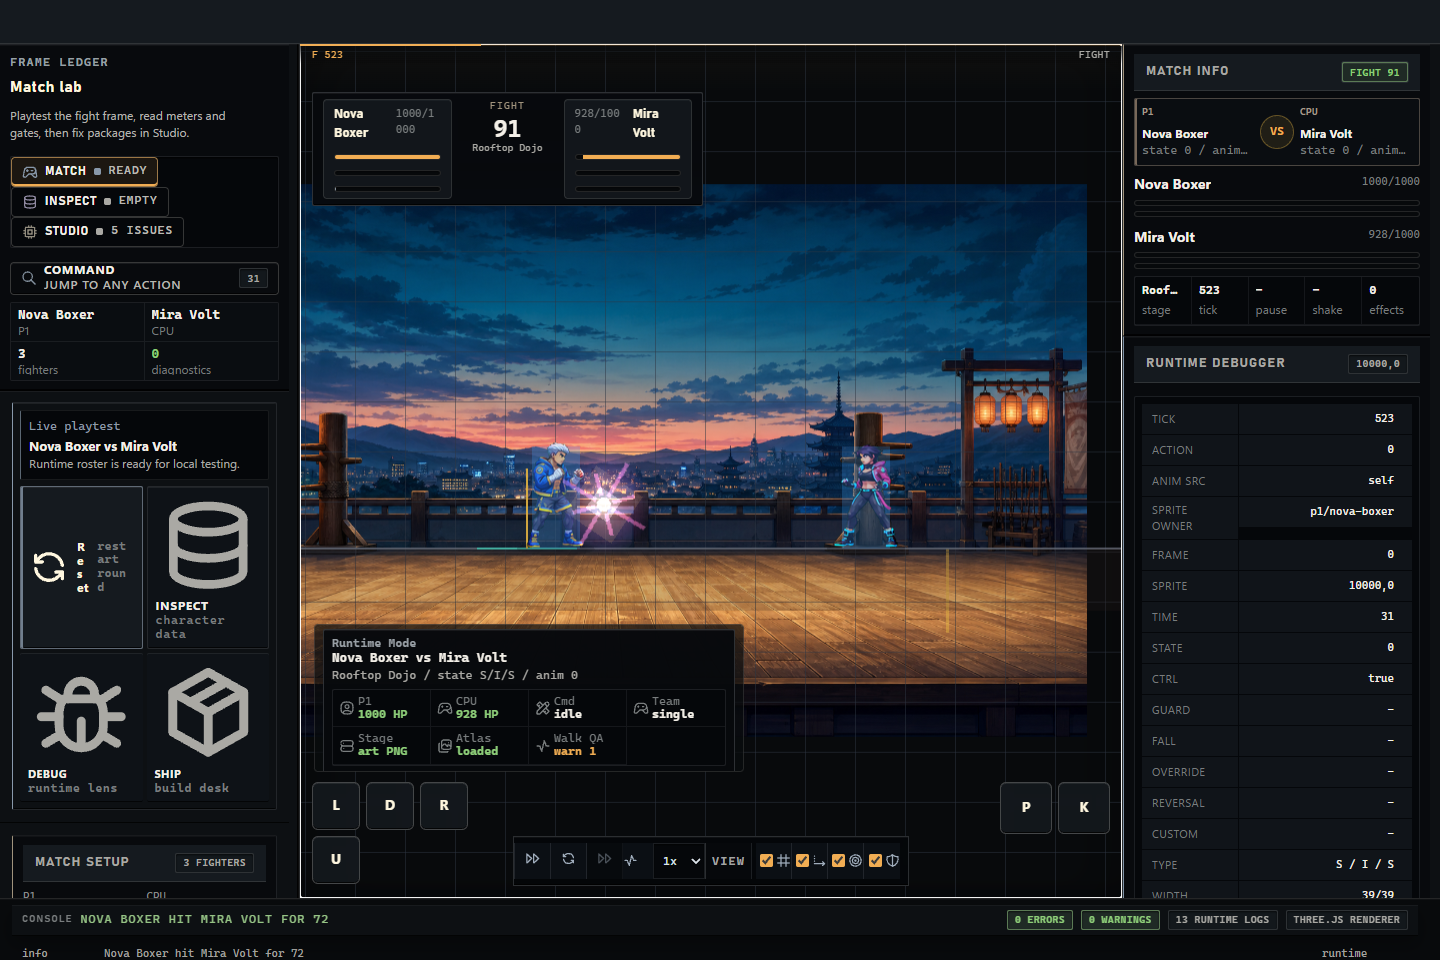
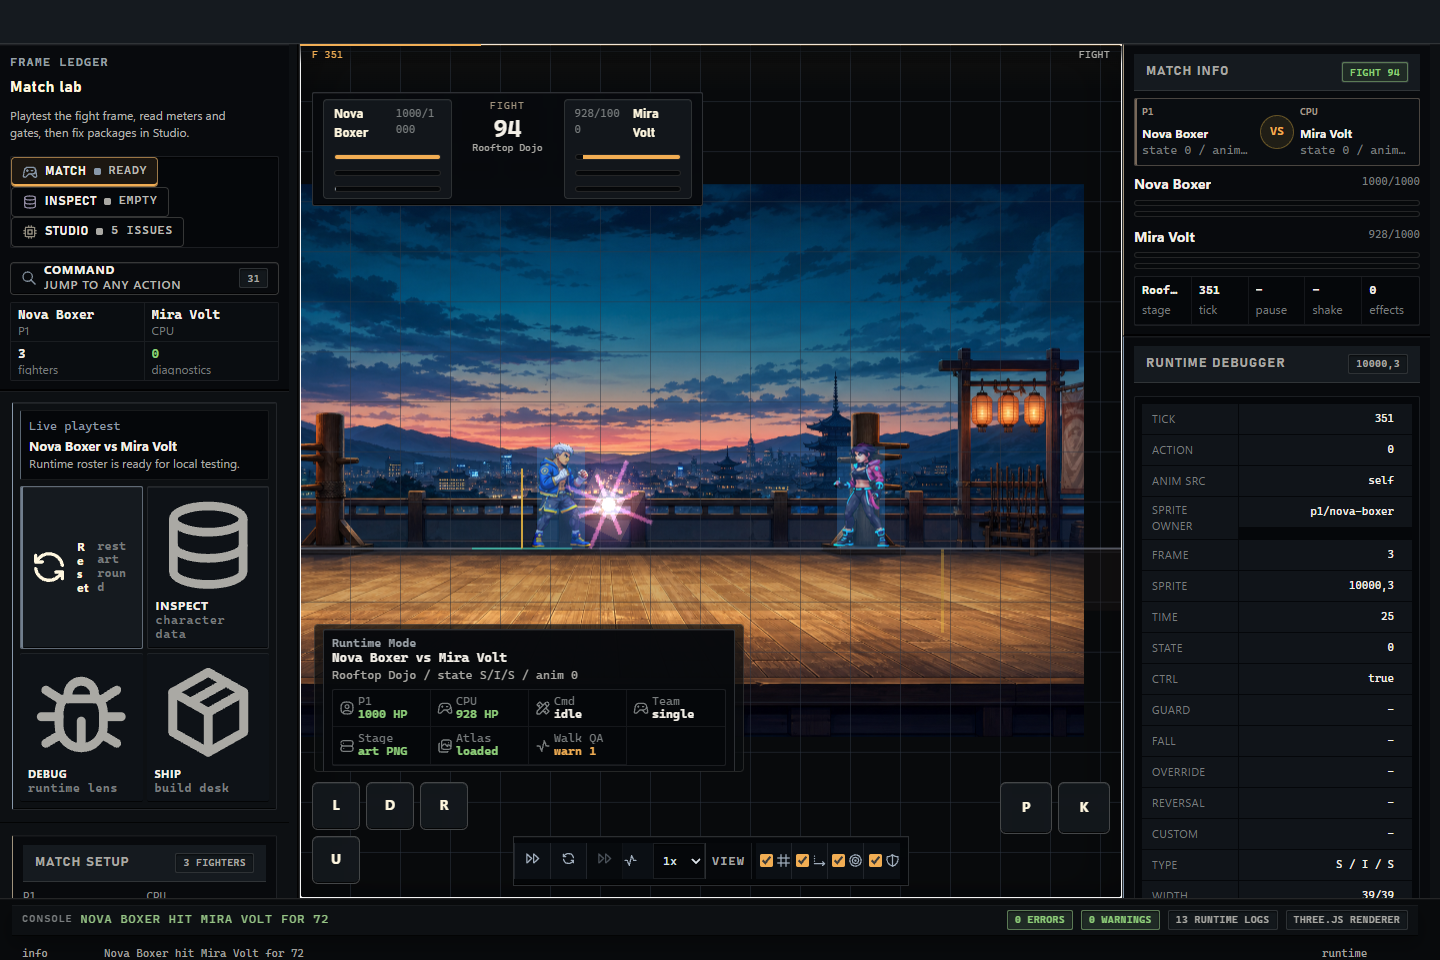
fix(da32): stabilize hit spark input drive

Changed region(s): [[0.2188, 0.1875, 0.7812, 0.6875], [0.75, 0.6562, 0.7812, 0.6875], [0.3438, 0.125, 0.375, 0.1562]]

diff --git a/docs/PROGRESS_TRACKER.md b/docs/PROGRESS_TRACKER.md
@@ -37,7 +37,8 @@ Research: [desktop and responsive interface audit](research/2026-07-27-interface
 ## DA32-002 native hit-spark drive - focal pass, global smoke open (2026-07-27)
 
 - `scripts/qa_smoke.cjs` now waits for `playing`, approaches by live actor
-  distance, and retries the named attack keys after a miss.
+  distance, holds each attack for 120 ms, and retries the named attack keys
+  after a miss.
 - `pnpm qa:browser:da32-002-hit-spark` passed at desktop `1440x960` and mobile
   `390x844`. `KeyZ`, `KeyA`, and `KeyX` each produced a player spark with a
   resolved sprite and axis record; unexpected console errors: zero.

diff --git a/docs/WORKPLAN.md b/docs/WORKPLAN.md
@@ -3,8 +3,9 @@
 ## DA32-002 native hit-spark drive (2026-07-27)
 
 `scripts/qa_smoke.cjs` now keeps the match playing, approaches until the live
-actors reach attack range, and retries `KeyZ`, `KeyA`, and `KeyX`. The focused
-browser gate passed on desktop `1440x960` and mobile `390x844`, with native
+actors reach attack range, holds each attack for 120 ms, and retries `KeyZ`,
+`KeyA`, and `KeyX`. The focused browser gate passed on desktop `1440x960` and
+mobile `390x844`, with native
 player spark source, resolved sprite frame, axis data, damage, and zero
 unexpected console errors.
 
